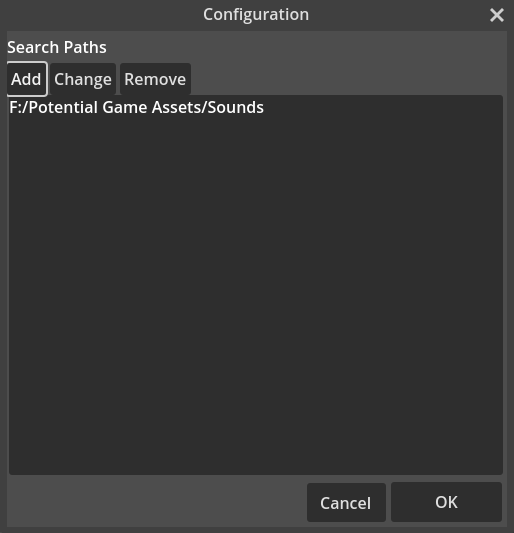
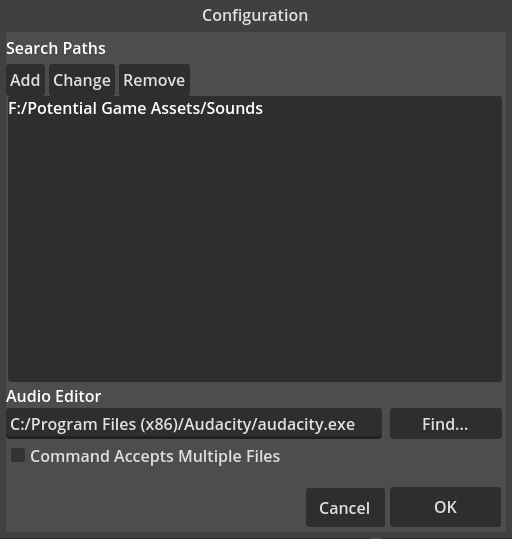
Update screenshots and manual to account for new features
Adds animated gifs for filter and multitag.

diff --git a/README.md b/README.md
@@ -9,42 +9,60 @@ to log an issue.
 When you first open SoundBrowzr you will be shown the config dialog. Here you can choose which folders
 to scan for sound effects. You must choose at least one folder for SoundBrowzr to be able to function.
 
-## Setup
+Optionally, you can also choose a program to open sound effects with.
 
+## Setup
 ![SoundBrowzr configuration window](/screenshots/config.png)
 
-After you choose the folders to scan SoundBrowzr will scan them. If a lot of folders are being scanned
-this may cause SoundBrowzr to freeze briefly. This should be fixed in a future release. Once this
-is done you should see the main SoundBrowzr window.
+After you choose the folders to scan SoundBrowzr will scan them. Once this is done all sounds will appear
+in the file tree on the bottom left section of the main window.
 
-In future versions you will also be able to pick a sound editor to open files in.
+In addition you may optionally choose a program to open and edit sound effects. This makes it faster to
+make use of the sounds you've selected in your project. If the program you choose can open multiple sound
+files at once turn on "Command Accepts Multiple Files" to take advantage. Otherwise SoundBrowzr will open
+one sound file at a time with the program you've chosen.
 
 ## The Main Window
 ![SoundBrowzr main view](/screenshots/main.png)
 
-On the left are tools for creating and managing tags and a list of all sound files found during scanning.
-Options for filtering the sound list by tags are also found here, more on that later. You may create edit
-or delete tags by clicking the buttons under Manage Tags. Create and Edit both open the tag editor.
+On the top left are tools for creating and managing tags. And, on the bottom left is a list of all sound files
+found during scanning. Options for filtering the sound list by tags are also found on the left side of the main window.
+More on that later. You may create edit or delete tags by clicking the buttons under Manage Tags.
+Create and Edit both open the tag editor.
 
 ## Editing Tags
 ![SoundBrowzr tag editor](/screenshots/tag.png)
 
-Tags are used to categorize sounds so they're easier to find. Each tag has a unique name and a color.
+Tags are used to categorize sounds so they're easier to find. Each tag has a unique name and a color. Create as many
+or as few tags as you want.
+
+## Filtering the Sound List
+![An animation of filtering by tags](/screenshots/filter.gif)
+
+Tags are used to make searching for specific sound effects easier. Once you've assigned tags to some sounds
+you can set a filter on the listed sound files. Use the Include Tags filter to only display sounds that have
+every tag listed. Use the Exclude Tags filter to hide sounds that have any of the tags listed.
 
 ## Playing and Tagging Sounds
 On the left section, below Manage Tags, is the sound file list. This is where you can browse sounds found
-in the folders you selected when configuring SoundBrowzr. Currently SoundBrowzr can only play with MP3, WAV
-and OGG files. Other formats such as AAC, AIF, FLAC cannot be played and are unlisted. This will also be
+in the folders you selected when configuring SoundBrowzr. Currently SoundBrowzr can only play MP3, WAV
+and OGG files. Other formats such as AAC, AIF, FLAC etc. cannot be played and are unlisted. This will also be
 fixed in a future version.
 
 Clicking on a sound file will play it and show what tags are assigned to it, if any. All properties of
 the sound that is selected appear on the right side of SoundBrowzr. You may assign tags to the selected
-sound effect by clicking the + button on the list of tags. All tags that are selected in the top left
-will be assigned to the sound effect.
+sound effect by clicking the Tag button above the list of tags. All tags that are selected in the top left
+will be assigned to the sound effect. To remove one or more tags from a sound select the tag on the list
+of assigned tags and click Untag.
 
-In the future the Open button will open the sound in Audacity, Tenacity or whatever tool you choose.
+If you have configured SoundBrowzr with an exteral sound editor you may use it to open the sound you selected
+by clicking the Open button.
 
-## Filtering the Sound List
-Tags are used to make searching for specific sound effects easier. Once you've assigned tags to some sounds
-you can set a filter on the listed sound files. Use the Include Tags filter to only display sounds that have
-every tag listed. Use the Exclude Tags filter to hide sounds that have any of the tags listed.
+## Tagging and Opening Multiple Sounds at once
+![An animation of taggin multiple sounds at once](/screenshots/multitag.gif)
+
+On the right side of each sound listed int the sound file list is a checkbox. This allows you to work with
+multiple sound files at once. When one or more sounds are checked the Tag and Untag buttons become Tag All and
+Untag All and the list of assigned tags will only show tags that are common to all the sounds you have checked.
+
+Clicking the Open button with multiple sounds checked will open all of them at once.
